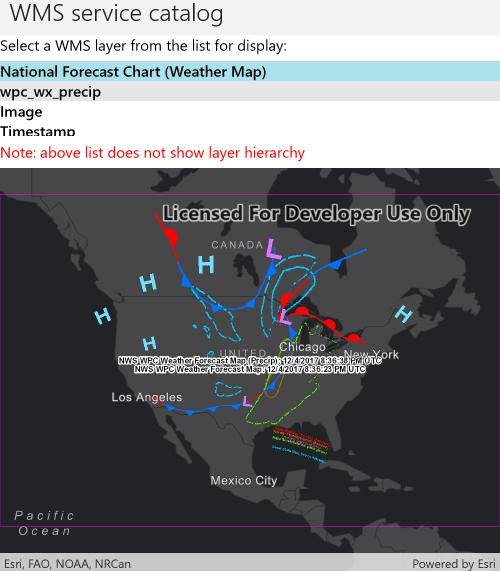
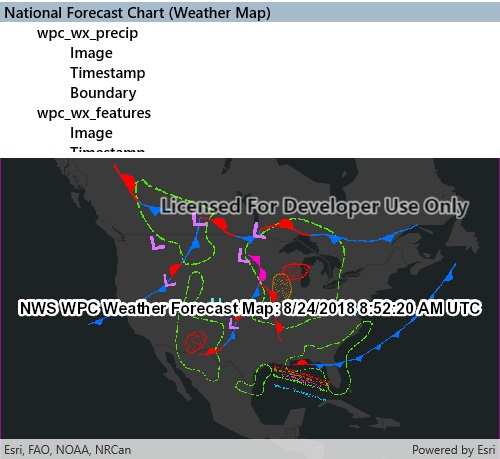
Forms update for WMS service catalog

diff --git a/src/Forms/Shared/Samples/Layers/WmsServiceCatalog/WmsServiceCatalog.xaml b/src/Forms/Shared/Samples/Layers/WmsServiceCatalog/WmsServiceCatalog.xaml
@@ -1,24 +1,23 @@
-<?xml version="1.0" encoding="utf-8" ?>
+<?xml version="1.0" encoding="utf-8"?>
+
 <ContentPage xmlns="http://xamarin.com/schemas/2014/forms"
              xmlns:x="http://schemas.microsoft.com/winfx/2009/xaml"
              xmlns:esriUI="clr-namespace:Esri.ArcGISRuntime.Xamarin.Forms;assembly=Esri.ArcGISRuntime.Xamarin.Forms"
              x:Class="ArcGISRuntime.Samples.WmsServiceCatalog.WmsServiceCatalog">
     <Grid>
         <Grid.RowDefinitions>
-            <RowDefinition Height="auto"/>
-            <RowDefinition Height="75" />
             <RowDefinition Height="auto" />
+            <RowDefinition Height="150" />
             <RowDefinition Height="*" />
         </Grid.RowDefinitions>
         <Label Text="Select a WMS layer from the list for display:" Grid.Row="0" />
         <ListView x:Name="MyDisplayList" Grid.Row="1" ItemSelected="MyDisplayList_SelectionChanged">
             <ListView.ItemTemplate>
                 <DataTemplate>
-                    <TextCell Text="{Binding Title}" />
+                    <TextCell Text="{Binding Name}" />
                 </DataTemplate>
             </ListView.ItemTemplate>
         </ListView>
-        <Label TextColor="Red" Text="Note: above list does not show layer hierarchy" Grid.Row="2" />
-        <esriUI:MapView x:Name="MyMapView" Grid.Row="3" />
+        <esriUI:MapView x:Name="MyMapView" Grid.Row="2" />
     </Grid>
 </ContentPage>

diff --git a/src/Forms/Shared/Samples/Layers/WmsServiceCatalog/WmsServiceCatalog.xaml.cs b/src/Forms/Shared/Samples/Layers/WmsServiceCatalog/WmsServiceCatalog.xaml.cs
@@ -25,10 +25,11 @@ namespace ArcGISRuntime.Samples.WmsServiceCatalog
     public partial class WmsServiceCatalog : ContentPage
     {
         // Hold the URL to the WMS service providing the US NOAA National Weather Service forecast weather chart
-        private Uri wmsUrl = new Uri("https://idpgis.ncep.noaa.gov/arcgis/services/NWS_Forecasts_Guidance_Warnings/natl_fcst_wx_chart/MapServer/WMSServer?request=GetCapabilities&service=WMS");
+        private readonly Uri _wmsUrl = new Uri(
+            "https://idpgis.ncep.noaa.gov/arcgis/services/NWS_Forecasts_Guidance_Warnings/natl_fcst_wx_chart/MapServer/WMSServer?request=GetCapabilities&service=WMS");
 
         // Hold a list of LayerDisplayVM; this is the ViewModel
-        private ObservableCollection<LayerDisplayVM> _viewModelList = new ObservableCollection<LayerDisplayVM>();
+        private readonly ObservableCollection<LayerDisplayVM> _viewModelList = new ObservableCollection<LayerDisplayVM>();
 
         public WmsServiceCatalog()
         {
@@ -42,110 +43,77 @@ namespace ArcGISRuntime.Samples.WmsServiceCatalog
 
         private async void Initialize()
         {
-            // Apply an imagery basemap to the map
+            // Apply an imagery basemap to the map.
             MyMapView.Map = new Map(Basemap.CreateDarkGrayCanvasVector());
 
-            // Create the WMS Service
-            WmsService service = new WmsService(wmsUrl);
+            // Create the WMS Service.
+            WmsService service = new WmsService(_wmsUrl);
 
-            // Load the WMS Service
+            // Load the WMS Service.
             await service.LoadAsync();
 
-            // Get the service info (metadata) from the service
+            // Get the service info (metadata) from the service.
             WmsServiceInfo info = service.ServiceInfo;
 
-            // Get the list of layer infos
-            IReadOnlyList<WmsLayerInfo> topLevelLayers = info.LayerInfos;
-
-            // Recursively build up a list of all the layers in the service and get their IDs as a flat list
-            List<WmsLayerInfo> expandedList = new List<WmsLayerInfo>();
-            BuildLayerInfoList(topLevelLayers, expandedList);
-
-            // Build the ViewModel from the expanded list of layer infos
-            foreach (WmsLayerInfo layerInfo in expandedList)
+            // Get the list of layer infos.
+            foreach (var layerInfo in info.LayerInfos)
             {
-                // LayerDisplayVM is a custom type made for this sample to serve as the ViewModel; it is not a part of the ArcGIS Runtime
-                _viewModelList.Add(new LayerDisplayVM(layerInfo));
+                LayerDisplayVM.BuildLayerInfoList(new LayerDisplayVM(layerInfo, null), _viewModelList);
             }
 
-            // Update the map display based on the viewModel
+            // Update the map display based on the viewModel.
             UpdateMapDisplay(_viewModelList);
 
-            // Update the list of layers
+            // Update the list of layers.
             MyDisplayList.ItemsSource = _viewModelList;
         }
 
         /// <summary>
-        /// Recursively builds a list of WmsLayerInfo metadata starting from a collection of root WmsLayerInfo
-        /// </summary>
-        /// <remarks>
-        /// For simplicity, this sample doesn't show the layer hierarchy (tree), instead collapsing it to a list.
-        /// A tree view would be more appropriate, but would complicate the sample greatly.
-        /// </remarks>
-        /// <param name="info">Collection of starting WmsLayerInfo object</param>
-        /// <param name="result">Result list to build</param>
-        private void BuildLayerInfoList(IReadOnlyList<WmsLayerInfo> info, List<WmsLayerInfo> result)
-        {
-            // Return if there are no more layers to explore
-            if (info.Count < 1) { return; }
-
-            // Add each layer and each layer's children
-            foreach (WmsLayerInfo layer in info)
-            {
-                // Add the layer
-                result.Add(layer);
-
-                // Recursively add children
-                BuildLayerInfoList(layer.LayerInfos, result);
-            }
-        }
-
-        /// <summary>
-        /// Updates the map with the latest layer selection
+        /// Updates the map with the latest layer selection.
         /// </summary>
         private async void UpdateMapDisplay(ObservableCollection<LayerDisplayVM> displayList)
         {
-            // Remove all existing layers
+            // Remove all existing layers.
             MyMapView.Map.OperationalLayers.Clear();
 
-            // Get a list of selected LayerInfos
+            // Get a list of selected LayerInfos.
             List<WmsLayerInfo> selectedLayers = displayList.Where(vm => vm.IsEnabled).Select(vm => vm.Info).ToList();
 
-            // Return if no layers selected
+            // Return if no layers selected.
             if (!selectedLayers.Any())
             {
                 return;
             }
 
-            // Create a new WmsLayer from the selected layers
+            // Create a new WmsLayer from the selected layers.
             WmsLayer myLayer = new WmsLayer(selectedLayers);
 
-            // Load the layer
+            // Load the layer.
             await myLayer.LoadAsync();
 
-            // Add the layer to the map
+            // Add the layer to the map.
             MyMapView.Map.OperationalLayers.Add(myLayer);
 
-            // Update the viewpoint
+            // Update the viewpoint.
             await MyMapView.SetViewpointAsync(new Viewpoint(myLayer.FullExtent));
         }
 
         /// <summary>
-        /// Takes action once a new layer selection is made
+        /// Takes action once a new layer selection is made.
         /// </summary>
         private void MyDisplayList_SelectionChanged(object sender, SelectedItemChangedEventArgs e)
         {
-            // Clear existing selection
+            // Deselect all layers.
             foreach (LayerDisplayVM item in _viewModelList)
             {
-                item.IsEnabled = false;
+                item.Select(false);
             }
 
             // Hold a reference to the selected item
-            LayerDisplayVM selectedItem = (LayerDisplayVM)e.SelectedItem;
+            LayerDisplayVM selectedItem = (LayerDisplayVM) e.SelectedItem;
 
             // Update the selection
-            selectedItem.IsEnabled = true;
+            selectedItem.Select();
 
             // Update the map
             UpdateMapDisplay(_viewModelList);
@@ -154,28 +122,76 @@ namespace ArcGISRuntime.Samples.WmsServiceCatalog
 
     /// <summary>
     /// This is a ViewModel class for maintaining the state of a layer selection.
-    /// Typically, this would go in a separate file, but it is included here for clarity
+    /// Typically, this would go in a separate file, but it is included here for clarity.
     /// </summary>
     public class LayerDisplayVM
     {
-        /// <summary>
-        /// Metadata for the individual selected layer
-        /// </summary>
-        public WmsLayerInfo Info { get; set; }
+        public WmsLayerInfo Info { get; }
 
-        /// <summary>
-        /// True if the layer is selected for display
-        /// </summary>
-        public bool IsEnabled { get; set; }
+        // True if layer is selected for display.
+        public bool IsEnabled { get; private set; }
 
-        /// <summary>
-        /// Title property to facilitate binding
-        /// </summary>
-        public string Title { get { return Info.Title; } }
+        // Keeps track of how much indentation should be added (to simulate a tree view in a list).
+        private int NestLevel
+        {
+            get
+            {
+                if (Parent == null)
+                {
+                    return 0;
+                }
 
-        public LayerDisplayVM(WmsLayerInfo info)
+                return Parent.NestLevel + 1;
+            }
+        }
+
+        private List<LayerDisplayVM> Children { get; set; }
+
+        private LayerDisplayVM Parent { get; }
+
+        public LayerDisplayVM(WmsLayerInfo info, LayerDisplayVM parent)
         {
             Info = info;
+            Parent = parent;
+        }
+
+        // Select this layer and all child layers.
+        public void Select(bool isSelected = true)
+        {
+            IsEnabled = isSelected;
+            if (Children == null)
+            {
+                return;
+            }
+
+            foreach (var child in Children)
+            {
+                child.Select(isSelected);
+            }
+        }
+
+        public string Name => $"{new String(' ', NestLevel * 8)} {Info.Title}";
+
+        public static void BuildLayerInfoList(LayerDisplayVM root, IList<LayerDisplayVM> result)
+        {
+            // Add the root node to the result list.
+            result.Add(root);
+
+            // Initialize the child collection for the root.
+            root.Children = new List<LayerDisplayVM>();
+
+            // Recursively add sublayers.
+            foreach (WmsLayerInfo layer in root.Info.LayerInfos)
+            {
+                // Create the view model for the sublayer.
+                LayerDisplayVM layerVM = new LayerDisplayVM(layer, root);
+
+                // Add the sublayer to the root's sublayer collection.
+                root.Children.Add(layerVM);
+
+                // Recursively add children.
+                BuildLayerInfoList(layerVM, result);
+            }
         }
     }
 }
